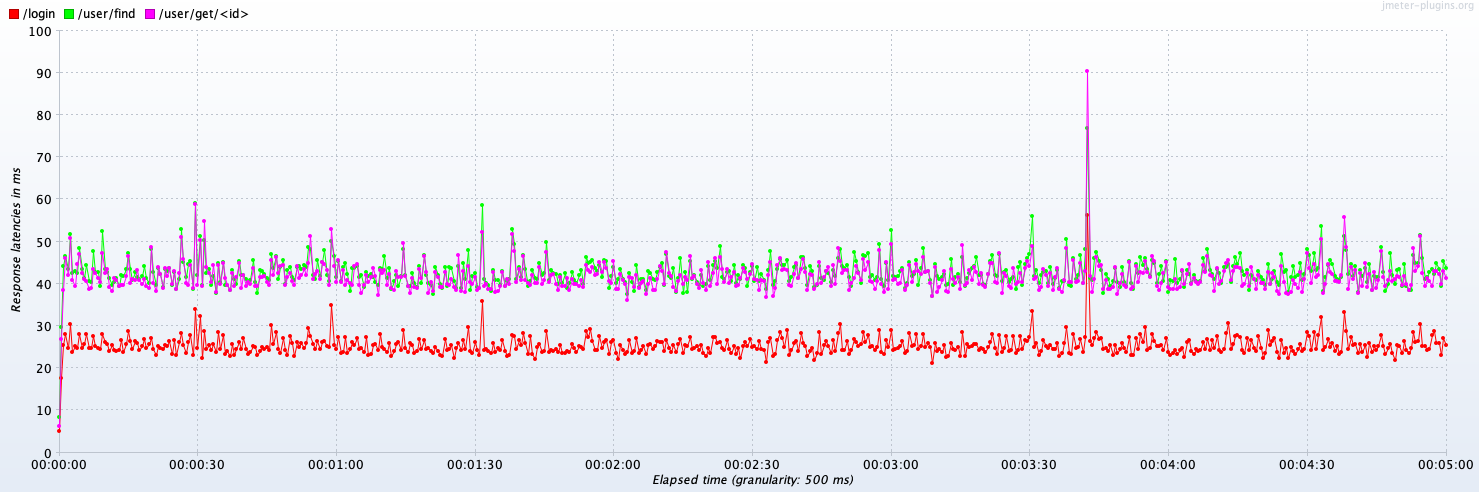
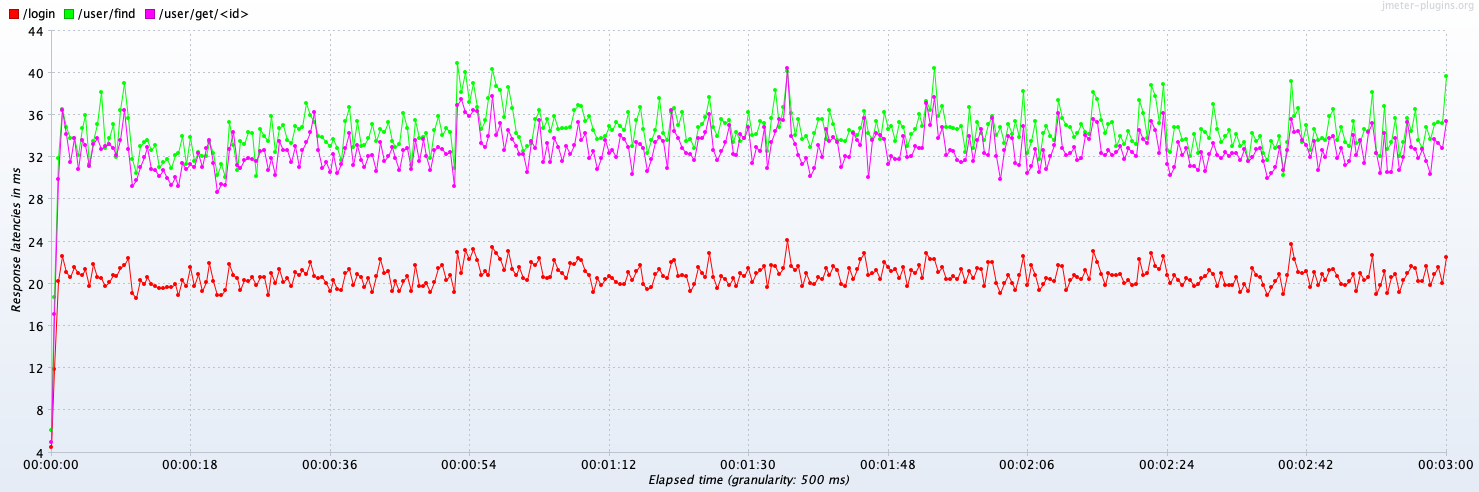
HW03: Отключить лишние логи и обновить замеры

diff --git a/socialnetwork/src/main/java/ru/webdl/otus/socialnetwork/MethodExecutionTimeLoggerAspect.java b/socialnetwork/src/main/java/ru/webdl/otus/socialnetwork/MethodExecutionTimeLoggerAspect.java
@@ -13,7 +13,7 @@ import org.springframework.util.StopWatch;
 @Log4j2
 public class MethodExecutionTimeLoggerAspect {
 
-    @Around("execution(* ru.webdl.otus.socialnetwork.infra..*.*(..))")
+//    @Around("execution(* ru.webdl.otus.socialnetwork.infra..*.*(..))")
 //    @Around("execution(* ru.webdl.otus.socialnetwork.infra.security.jwt.*(..))")
     public Object logExecutionTime(ProceedingJoinPoint joinPoint) throws Throwable {
         MethodSignature methodSignature = (MethodSignature) joinPoint.getSignature();

diff --git a/socialnetwork/src/main/java/ru/webdl/otus/socialnetwork/WebConfig.java b/socialnetwork/src/main/java/ru/webdl/otus/socialnetwork/WebConfig.java
@@ -12,6 +12,6 @@ public class WebConfig implements WebMvcConfigurer {
 
     @Override
     public void addInterceptors(InterceptorRegistry registry) {
-        registry.addInterceptor(executionTimeInterceptor);
+//        registry.addInterceptor(executionTimeInterceptor);
     }
 }

diff --git a/socialnetwork/hw/HW03.md b/socialnetwork/hw/HW03.md
@@ -117,16 +117,16 @@ pg_ctlcluster 16 main start
 рандомными ФИ.
 - **Register users** — регистрирует пользователя с рандомными данными.
 
-Выполняем пяти минутную нагрузку в 100 пользователей (потоков) и профилем **Get profile & Find users** и смотрим на полученные результаты:
+Выполняем трех-минутную нагрузку в 100 пользователей (потоков) и профилем **Get profile & Find users** и смотрим на полученные результаты:
 
 ### JMeter
 
-| Label           | # Samples | Average | Median | 90% Line | 95% Line | 99% Line | Min | Max | Error % | Throughput | Received KB/sec | Sent KB/sec |
-|-----------------|-----------|---------|--------|----------|----------|----------|-----|-----|---------|------------|-----------------|-------------|
-| /login          | 270359    | 25      | 22     | 46       | 56       | 81       | 1   | 421 | 0.000%  | 901.04649  | 713.37          | 268.38      |
-| /user/get/<id>  | 270328    | 41      | 39     | 72       | 85       | 116      | 1   | 474 | 0.000%  | 900.99422  | 526.41          | 354.48      |
-| /user/find      | 270293    | 43      | 40     | 74       | 87       | 117      | 1   | 517 | 0.000%  | 900.89859  | 18390.38        | 383.59      |
-| TOTAL           | 810980    | 36      | 33     | 67       | 80       | 110      | 1   | 517 | 0.000%  | 2702.81620 | 19628.66        | 1006.39     |
+| Label            | # Samples | Average | Median | 90% Line | 95% Line | 99% Line | Min | Max | Error % | Throughput  | Received KB/sec | Sent KB/sec |
+|------------------|-----------|---------|--------|----------|----------|----------|-----|-----|---------|-------------|-----------------|-------------|
+| /login           | 201276    | 20      | 18     | 36       | 46       | 64       | 1   | 161 | 0.000%  | 1117.88948  | 885.04          | 332.97      |
+| /user/get/<id>   | 201254    | 32      | 31     | 57       | 67       | 90       | 1   | 198 | 0.000%  | 1117.76108  | 653.03          | 439.77      |
+| /user/find       | 201216    | 34      | 33     | 60       | 70       | 93       | 1   | 207 | 0.000%  | 1117.48176  | 22696.80        | 475.80      |
+| TOTAL            | 603746    | 29      | 25     | 53       | 64       | 86       | 1   | 207 | 0.000%  | 3352.65438  | 24232.35        | 1248.36     |
 
 **Latency:**
 
